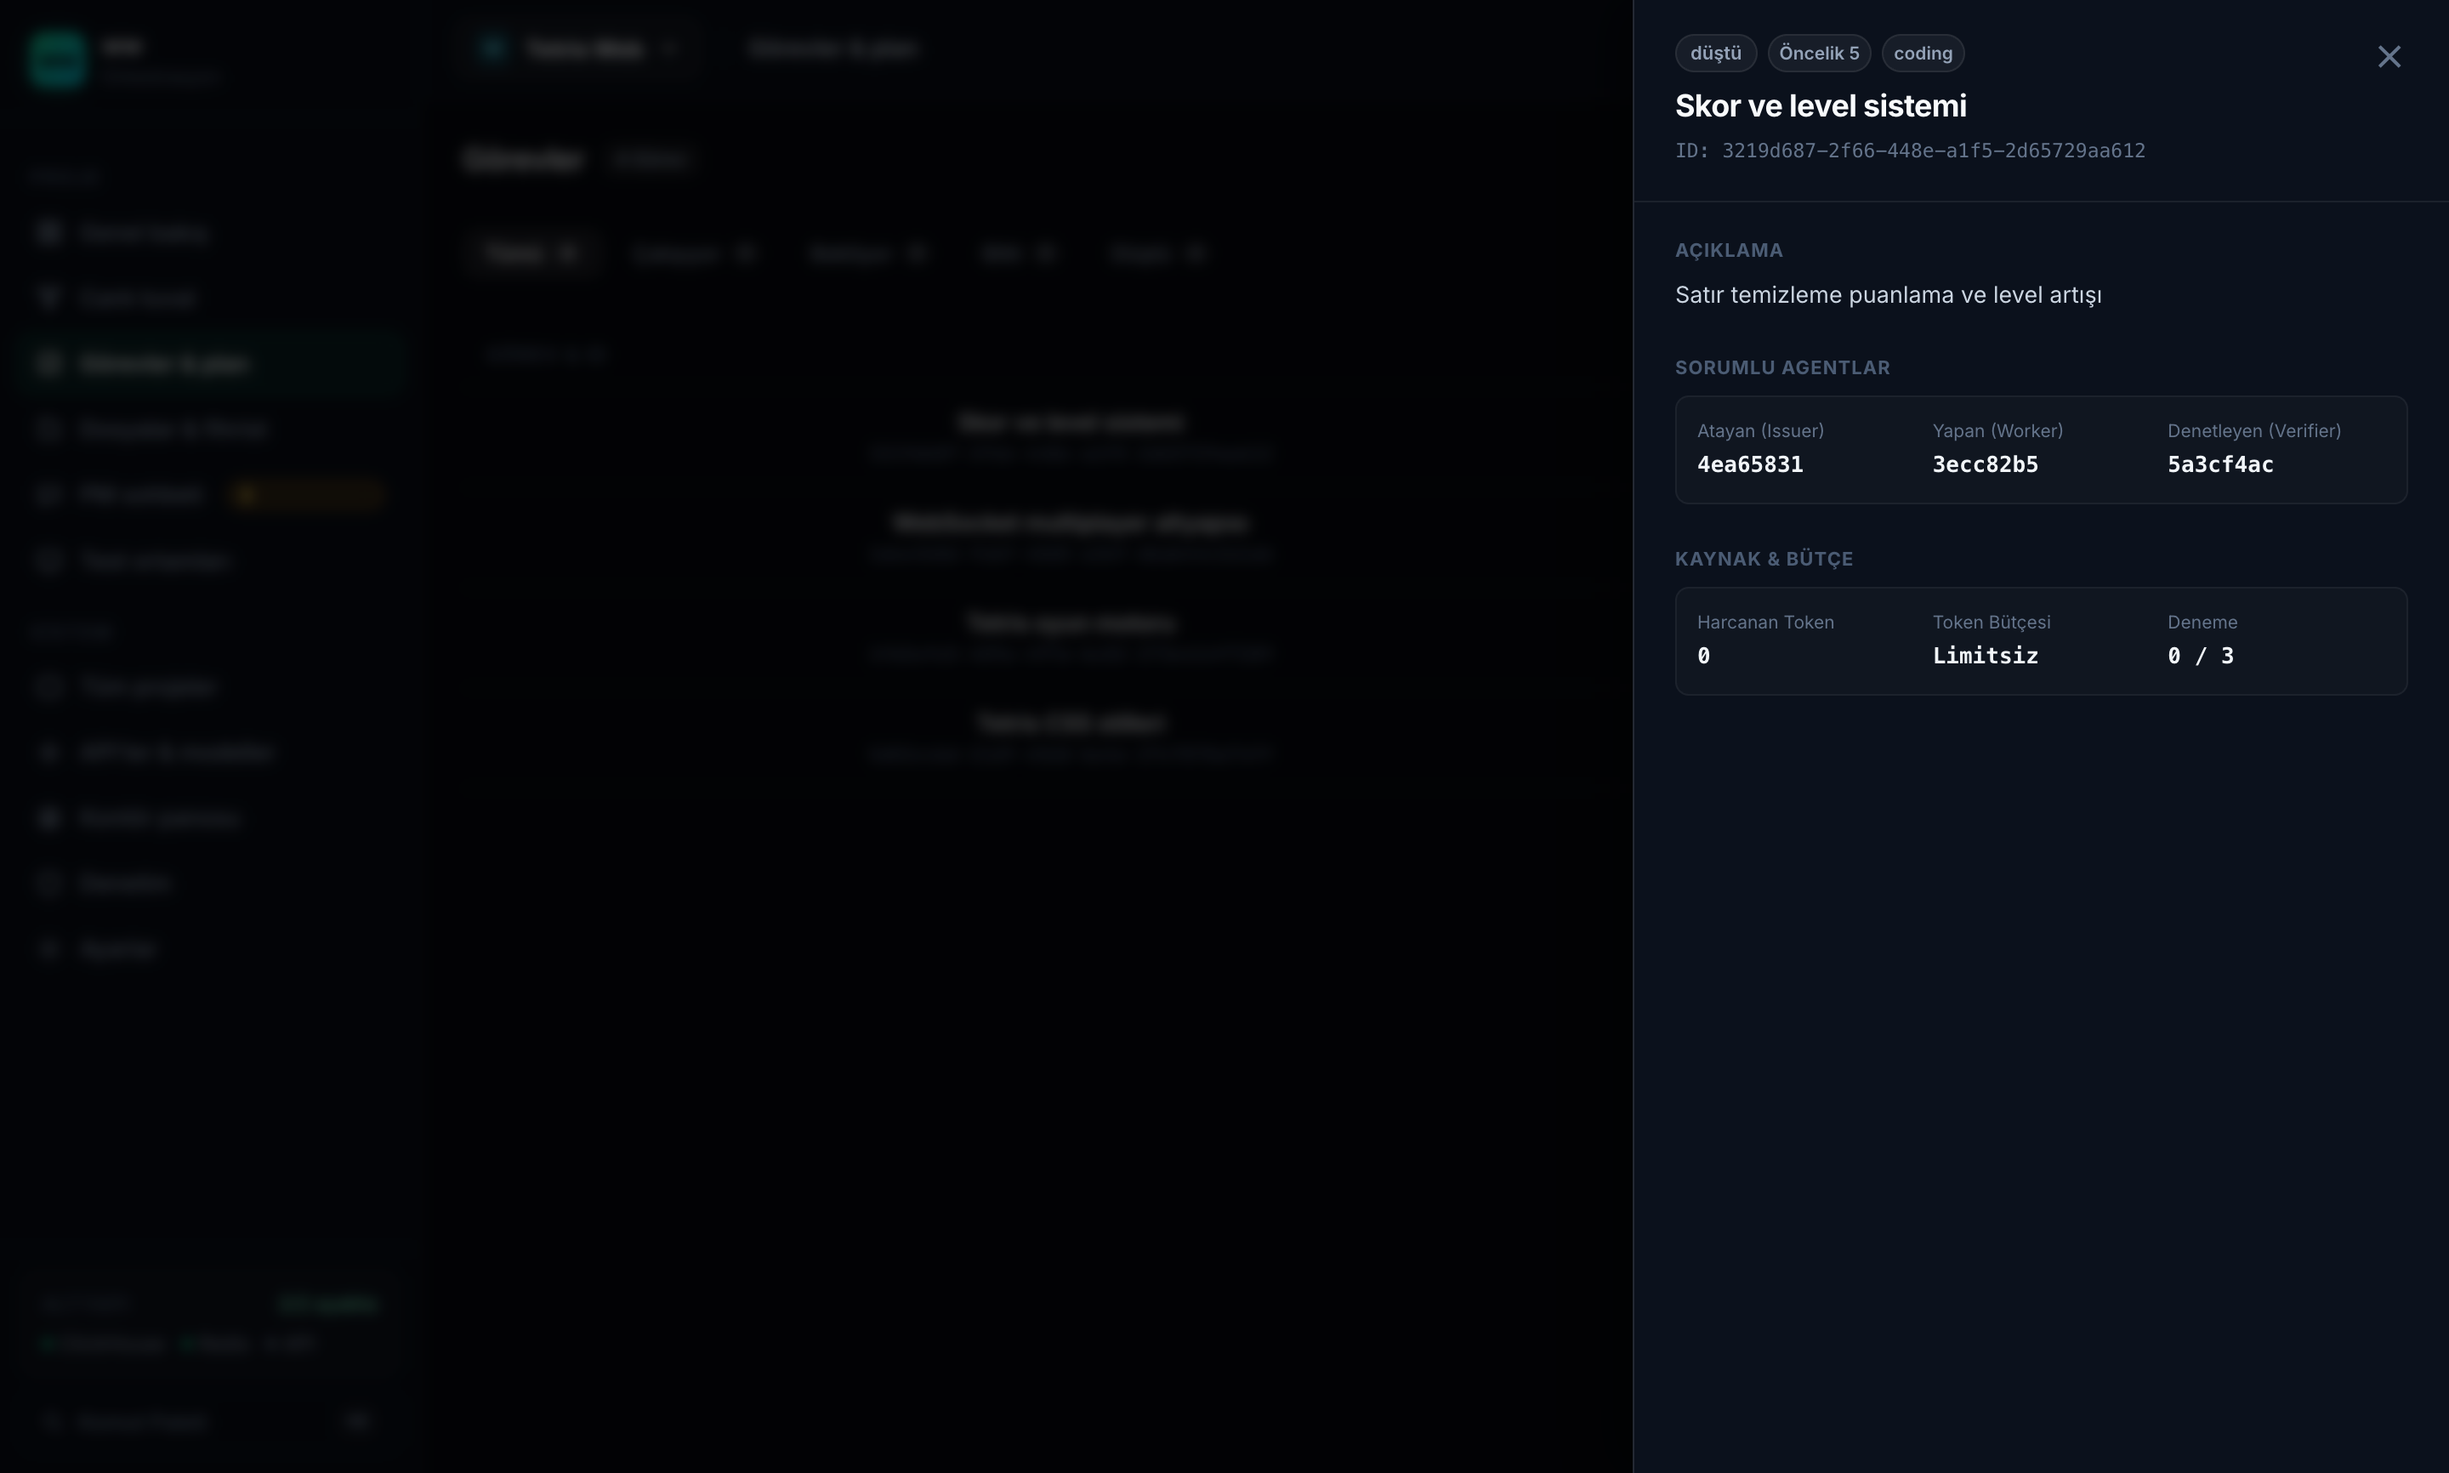
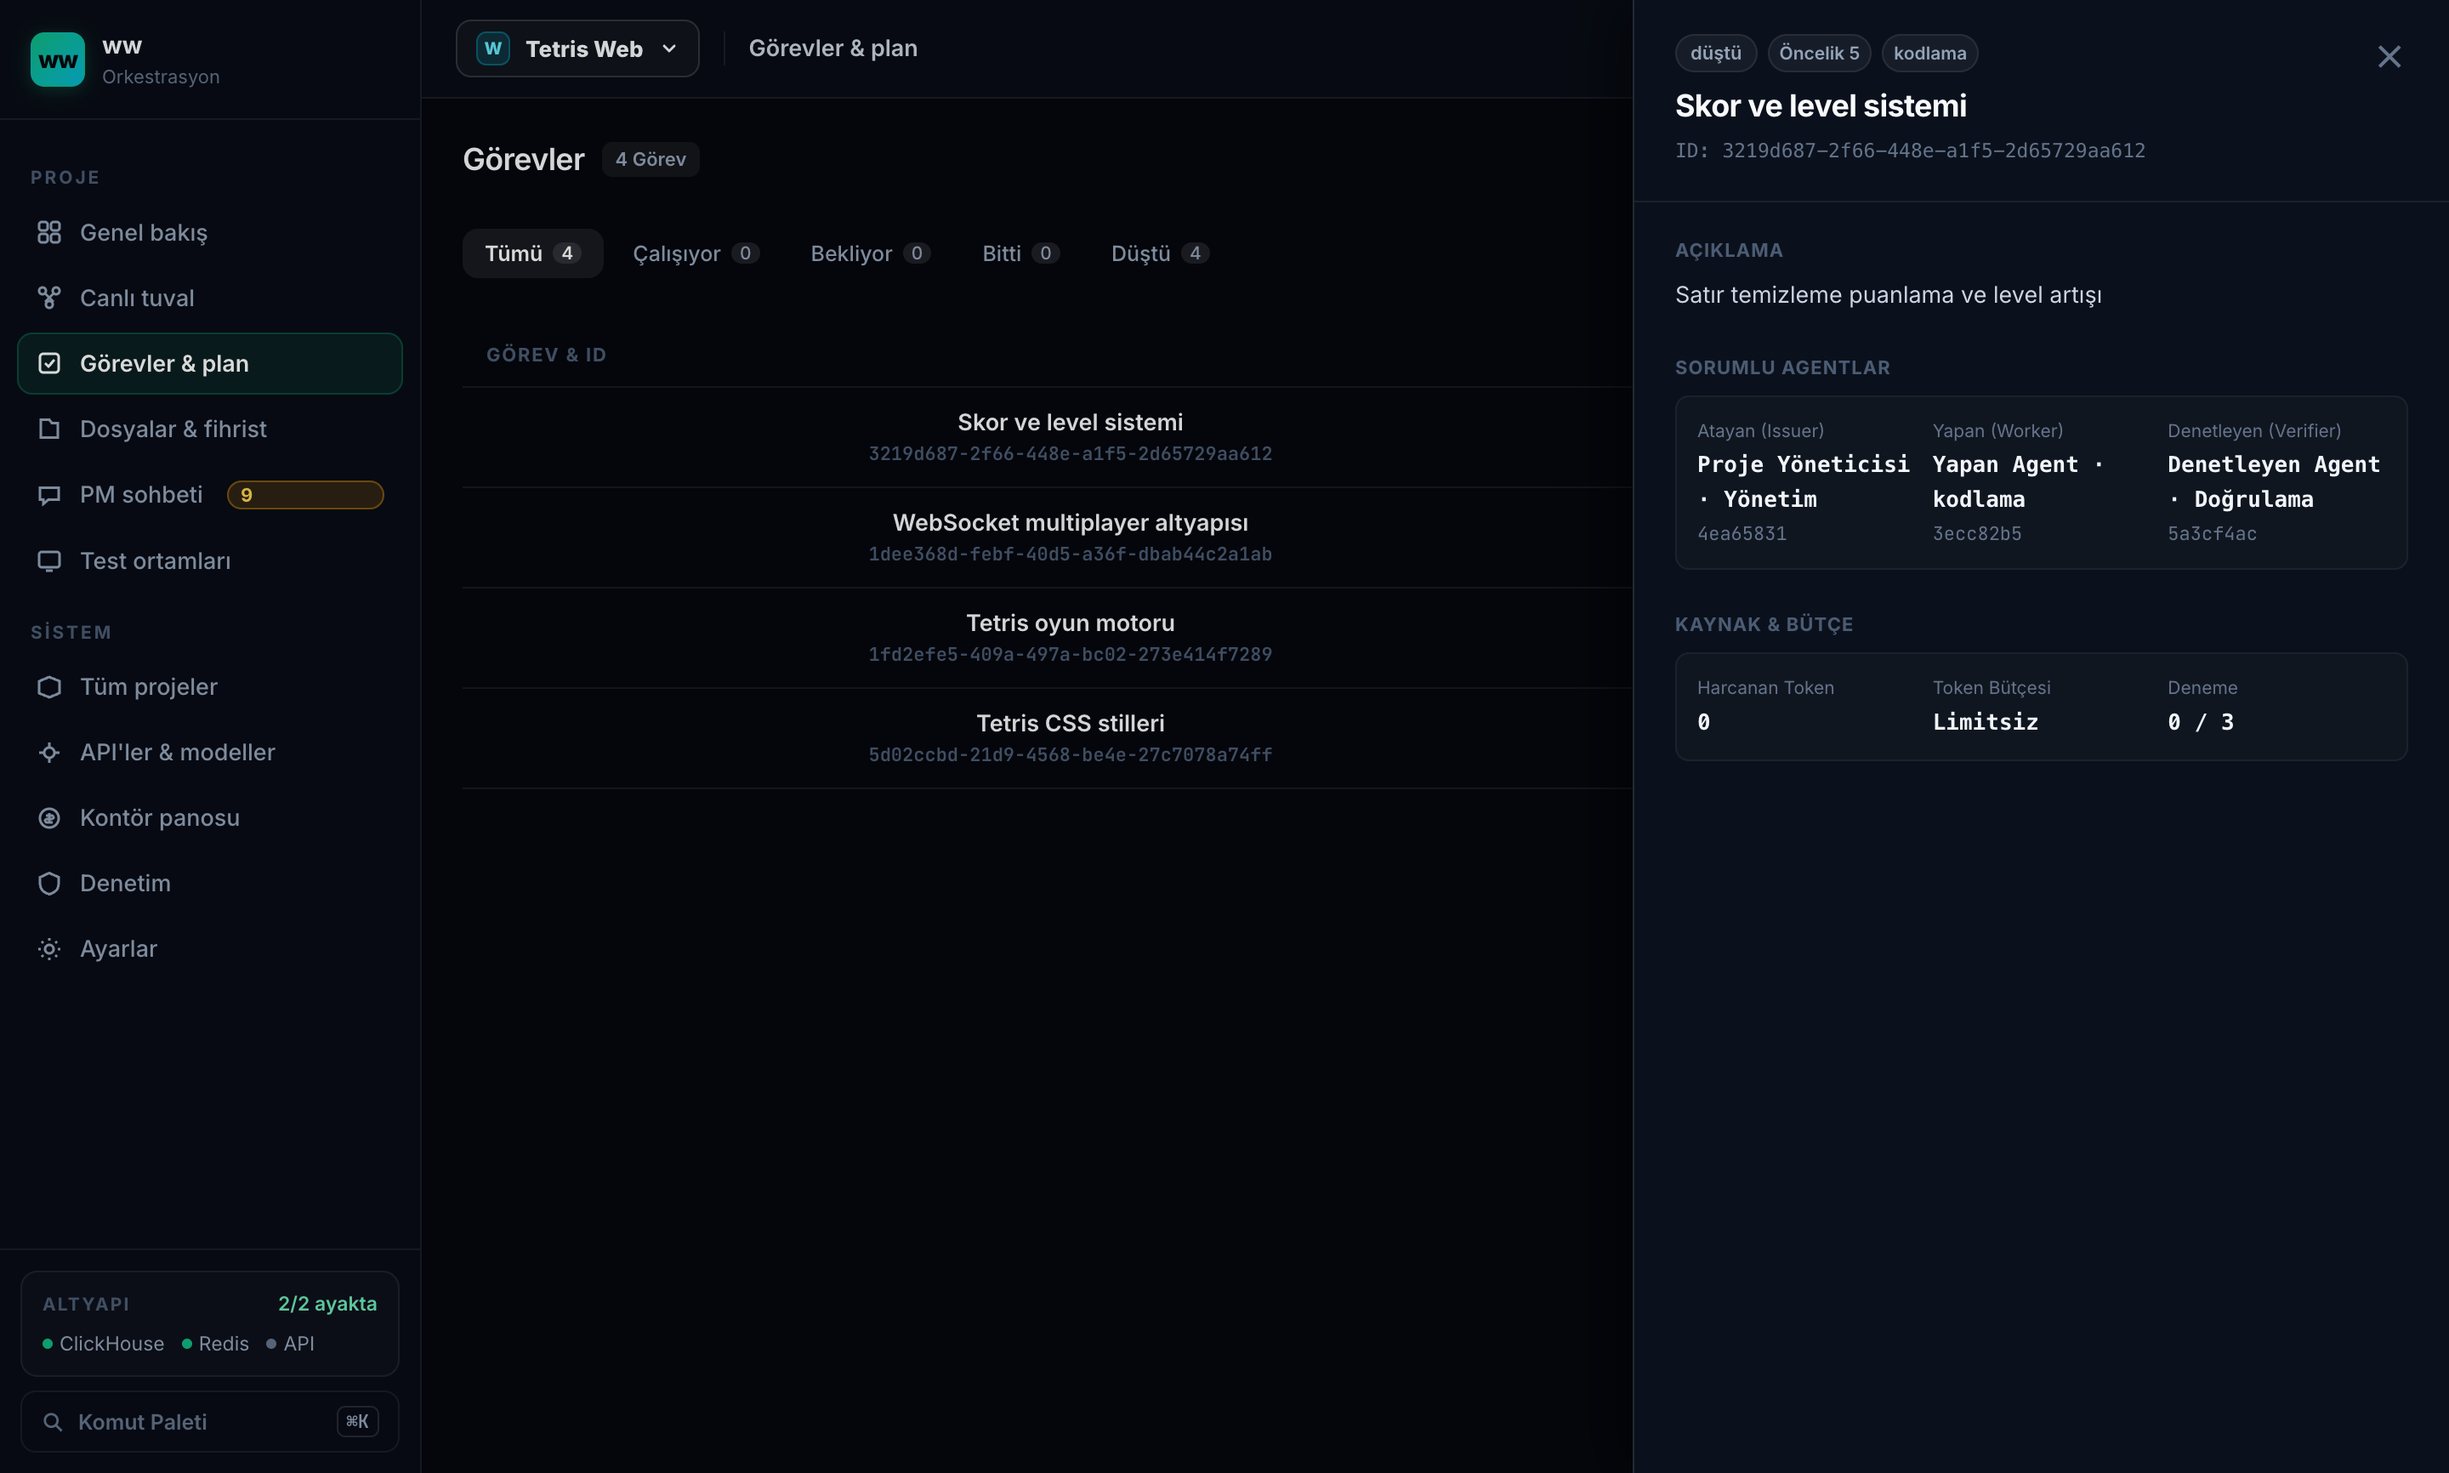
panel: gorev detay cekmecesi agent basliklari, turkce rozetler ve seffaf perde (YENI 1-3)
- YENI 1: Sorumlu agentlar bolumunde ham hex id yerine rol/ad basliklari
  (Proje Yoneticisi · Yonetim, Yapan Agent · Kodlama, Denetleyen Agent · Dogrulama)
  gosterilir; kisa hex id alt satirda mono font ile verilir.
- YENI 2: services/labels.ts icine agentGroupLabel ve taskGroupLabel sozlukleri
  eklendi; 'coding' -> 'kodlama' ve tum grup rozetleri Turkcelestirildi.
- YENI 3: .drawer-overlay koyu perdesi seffaf ve hafif (0.15) yapildi,
  arka plandaki dosya agaci ve editor okunur birakildi.
- BULGU 3: kanit/04_tetris_files_fihrist.png cekmece kapali halde 3 kolon ve
  fihrist gorev basliklari acik sekilde yeniden cekildi.

diff --git a/apps/panel/src/components/TaskDetailDrawer.tsx b/apps/panel/src/components/TaskDetailDrawer.tsx
@@ -1,10 +1,11 @@
 import React from "react";
 import { taskStatusLabel, isTaskRunning, isTaskDone } from "../services/task-status.js";
-import { agentRoleLabel } from "../services/labels.js";
+import { agentRoleLabel, agentGroupLabel, taskGroupLabel, messageKindLabel } from "../services/labels.js";
 import type { Task } from "../services/projects.js";
 import type { AuditFinding } from "../services/audit.js";
 import type { ChatMessage } from "../services/questions.js";
 import type { Artifact } from "../services/files.js";
+import type { CanvasNode } from "../services/canvas.js";
 
 export function TaskDetailDrawer({
   task,
@@ -12,6 +13,7 @@ export function TaskDetailDrawer({
   findings = [],
   messages = [],
   artifacts = [],
+  agents = [],
   onSelectFile,
 }: {
   readonly task: Task | undefined;
@@ -19,6 +21,7 @@ export function TaskDetailDrawer({
   readonly findings?: readonly AuditFinding[];
   readonly messages?: readonly ChatMessage[];
   readonly artifacts?: readonly Artifact[];
+  readonly agents?: readonly CanvasNode[];
   readonly onSelectFile?: (path: string) => void;
 }) {
   if (!task) return null;
@@ -30,6 +33,29 @@ export function TaskDetailDrawer({
   const targetFiles = Array.isArray(task.target_files) ? task.target_files : [];
   const acceptanceCriteria = Array.isArray(task.acceptance_criteria) ? task.acceptance_criteria : [];
 
+  function formatAgentInfo(agentId: string | undefined, defaultRole: string, defaultGroup?: string) {
+    if (!agentId) return { title: "Atanmadı", sub: "—" };
+    const agent = agents.find((a) => a.id === agentId);
+    if (agent) {
+      const roleText = agentRoleLabel(agent.role);
+      const groupText = agent.group ? agentGroupLabel(agent.group) : "";
+      const title = agent.label || (groupText ? `${roleText} · ${groupText}` : roleText);
+      return {
+        title,
+        sub: `${agentId.slice(0, 8)} · ${agent.modelRef || agent.role}`,
+      };
+    }
+    const roleTitle = defaultRole + (defaultGroup ? ` · ${defaultGroup}` : "");
+    return {
+      title: roleTitle,
+      sub: agentId.slice(0, 8),
+    };
+  }
+
+  const issuerInfo = formatAgentInfo(task.issuer_agent_id, "Proje Yöneticisi", "Yönetim");
+  const workerInfo = formatAgentInfo(task.worker_agent_id, "Yapan Agent", task.group ? taskGroupLabel(task.group) : "Geliştirme");
+  const verifierInfo = formatAgentInfo(task.verifier_agent_id, "Denetleyen Agent", "Doğrulama");
+
   return (
     <div className="drawer-overlay" onClick={onClose} role="dialog" aria-modal="true" aria-label="Görev detayları">
       <aside className="drawer-panel" onClick={(e) => e.stopPropagation()}>
@@ -40,7 +66,7 @@ export function TaskDetailDrawer({
                 {taskStatusLabel(task.status)}
               </span>
               <span className="pill pill--mini">Öncelik {task.priority ?? 5}</span>
-              {task.group ? <span className="pill pill--mini">{task.group}</span> : null}
+              {task.group ? <span className="pill pill--mini">{taskGroupLabel(task.group)}</span> : null}
             </div>
             <h2 className="drawer-title">{task.title}</h2>
             <code className="drawer-id">ID: {task.task_id}</code>
@@ -74,15 +100,18 @@ export function TaskDetailDrawer({
             <div className="drawer-meta-grid">
               <div>
                 <span className="drawer-meta-label">Atayan (Issuer)</span>
-                <strong className="drawer-meta-val">{task.issuer_agent_id ? task.issuer_agent_id.slice(0, 8) : "PM Agent"}</strong>
+                <strong className="drawer-meta-val">{issuerInfo.title}</strong>
+                <code className="drawer-meta-sub">{issuerInfo.sub}</code>
               </div>
               <div>
                 <span className="drawer-meta-label">Yapan (Worker)</span>
-                <strong className="drawer-meta-val">{task.worker_agent_id ? task.worker_agent_id.slice(0, 8) : "Atanmadı"}</strong>
+                <strong className="drawer-meta-val">{workerInfo.title}</strong>
+                <code className="drawer-meta-sub">{workerInfo.sub}</code>
               </div>
               <div>
                 <span className="drawer-meta-label">Denetleyen (Verifier)</span>
-                <strong className="drawer-meta-val">{task.verifier_agent_id ? task.verifier_agent_id.slice(0, 8) : "—"}</strong>
+                <strong className="drawer-meta-val">{verifierInfo.title}</strong>
+                <code className="drawer-meta-sub">{verifierInfo.sub}</code>
               </div>
             </div>
           </section>
@@ -143,7 +172,7 @@ export function TaskDetailDrawer({
               <div className="drawer-messages">
                 {taskMessages.map((m) => (
                   <div key={m.messageId} className="drawer-message-row">
-                    <span className="pill pill--mini">{m.kind}</span>
+                    <span className="pill pill--mini">{messageKindLabel(m.kind)}</span>
                     <p className="drawer-msg-text">{m.payload?.text ?? "(içerik yok)"}</p>
                     <small className="chat-time">{new Date(m.createdAt || Date.now()).toLocaleTimeString("tr-TR")}</small>
                   </div>

diff --git a/apps/panel/src/services/labels.ts b/apps/panel/src/services/labels.ts
@@ -41,6 +41,19 @@ const AGENT_ROLE: Readonly<Record<string, string>> = Object.freeze({
   narrator: 'anlatıcı',
 });
 
+const AGENT_GROUP: Readonly<Record<string, string>> = Object.freeze({
+  management: 'yönetim',
+  analysis: 'analiz',
+  design: 'tasarım',
+  db: 'veritabanı',
+  coding: 'kodlama',
+  research: 'araştırma',
+  reasoning: 'çıkarım',
+  ui_audit: 'arayüz denetimi',
+  mvvm_audit: 'mvvm denetimi',
+  db_write_audit: 'yazma denetimi',
+});
+
 const HEALTH: Readonly<Record<string, string>> = Object.freeze({
   ok: 'sağlıklı',
   degraded: 'zayıf',
@@ -48,21 +61,10 @@ const HEALTH: Readonly<Record<string, string>> = Object.freeze({
   unknown: 'bilinmiyor',
 });
 
-/** Bilinmeyen değerde ad KORUNUR; uydurma çeviri olmayan bir anlam verir. */
-const lookup = (table: Readonly<Record<string, string>>, value: string): string =>
-  table[value] ?? value;
-
-export const projectStatusLabel = (value: string): string => lookup(PROJECT, value);
-export const agentStatusLabel = (value: string): string => lookup(AGENT_STATUS, value);
-export const agentRoleLabel = (value: string): string => lookup(AGENT_ROLE, value);
-export const healthStatusLabel = (value: string): string => lookup(HEALTH, value);
-
 const AUDIT_PROFILE: Readonly<Record<string, string>> = Object.freeze({
   verifier: 'doğrulayıcı',
   communication_audit: 'iletişim denetimi',
 });
-
-export const auditProfileLabel = (value: string): string => lookup(AUDIT_PROFILE, value);
 
 const MESSAGE_KIND: Readonly<Record<string, string>> = Object.freeze({
   question: 'soru',
@@ -77,4 +79,15 @@ const MESSAGE_KIND: Readonly<Record<string, string>> = Object.freeze({
   verdict: 'karar',
 });
 
+/** Bilinmeyen değerde ad KORUNUR; uydurma çeviri olmayan bir anlam verir. */
+const lookup = (table: Readonly<Record<string, string>>, value: string): string =>
+  table[value] ?? value;
+
+export const projectStatusLabel = (value: string): string => lookup(PROJECT, value);
+export const agentStatusLabel = (value: string): string => lookup(AGENT_STATUS, value);
+export const agentRoleLabel = (value: string): string => lookup(AGENT_ROLE, value);
+export const agentGroupLabel = (value: string): string => lookup(AGENT_GROUP, value);
+export const taskGroupLabel = (value: string): string => lookup(AGENT_GROUP, value);
+export const healthStatusLabel = (value: string): string => lookup(HEALTH, value);
+export const auditProfileLabel = (value: string): string => lookup(AUDIT_PROFILE, value);
 export const messageKindLabel = (value: string): string => lookup(MESSAGE_KIND, value);

diff --git a/apps/panel/src/services/labels.test.ts b/apps/panel/src/services/labels.test.ts
@@ -1,11 +1,11 @@
 import { describe, expect, it } from 'vitest';
 import {
-  AGENT_ROLES, AGENT_STATUSES, AUDIT_FINDING_PROFILES, HEALTH_STATUSES, MESSAGE_KINDS,
+  AGENT_GROUPS, AGENT_ROLES, AGENT_STATUSES, AUDIT_FINDING_PROFILES, HEALTH_STATUSES, MESSAGE_KINDS,
   PROJECT_STATUSES,
 } from '@ww/shared';
 import {
-  agentRoleLabel, agentStatusLabel, auditProfileLabel, healthStatusLabel, messageKindLabel,
-  projectStatusLabel,
+  agentGroupLabel, agentRoleLabel, agentStatusLabel, auditProfileLabel, healthStatusLabel,
+  messageKindLabel, projectStatusLabel, taskGroupLabel,
 } from './labels.js';
 
 // Karar K6: panel dili Türkçe. Ham iç kimliğin kullanıcı yüzeyine sızması,
@@ -19,6 +19,7 @@ describe('etiket kapsamı', () => {
     ['proje durumu', PROJECT_STATUSES, projectStatusLabel],
     ['agent durumu', AGENT_STATUSES, agentStatusLabel],
     ['agent rolü', AGENT_ROLES, agentRoleLabel],
+    ['agent grubu', AGENT_GROUPS, agentGroupLabel],
     ['sağlık durumu', HEALTH_STATUSES, healthStatusLabel],
     ['denetim profili', AUDIT_FINDING_PROFILES, auditProfileLabel],
     ['mesaj türü', MESSAGE_KINDS, messageKindLabel],
@@ -32,6 +33,8 @@ describe('etiketler', () => {
     expect(projectStatusLabel('running')).toBe('çalışıyor');
     expect(agentStatusLabel('waiting_answer')).toBe('cevap bekliyor');
     expect(agentRoleLabel('standards_auditor')).toBe('standart denetçisi');
+    expect(agentGroupLabel('coding')).toBe('kodlama');
+    expect(taskGroupLabel('coding')).toBe('kodlama');
     expect(healthStatusLabel('down')).toBe('düştü');
   });
 

diff --git a/apps/panel/src/styles.css b/apps/panel/src/styles.css
@@ -3022,8 +3022,8 @@ input:focus, select:focus, textarea:focus {
 .drawer-overlay {
   position: fixed;
   inset: 0;
-  background: rgba(0, 0, 0, 0.65);
-  backdrop-filter: blur(4px);
+  background: rgba(0, 0, 0, 0.15);
+  backdrop-filter: none;
   z-index: 1000;
   display: flex;
   justify-content: flex-end;
@@ -3138,6 +3138,14 @@ input:focus, select:focus, textarea:focus {
   font-size: 10.5px;
   color: #64748b;
   margin-bottom: 2px;
+}
+
+.drawer-meta-sub {
+  display: block;
+  font-family: 'JetBrains Mono', ui-monospace, monospace;
+  font-size: 11px;
+  color: #64748b;
+  margin-top: 2px;
 }
 
 .drawer-meta-val {

diff --git a/apps/panel/src/App.tsx b/apps/panel/src/App.tsx
@@ -230,6 +230,7 @@ function AppContent() {
         onClose={() => vm.setSelectedTaskId(undefined)}
         findings={vm.auditReport.recordFindings}
         artifacts={vm.apiArtifacts}
+        agents={vm.replay.nodes}
         onSelectFile={(path) => {
           vm.setSelectedFile(path);
           navigate("files");
